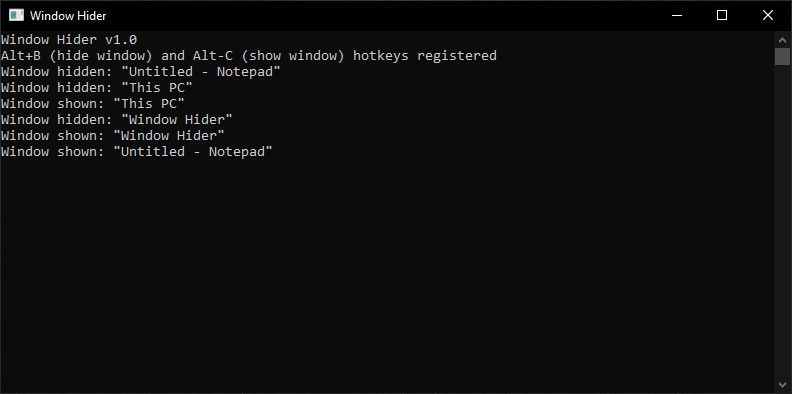
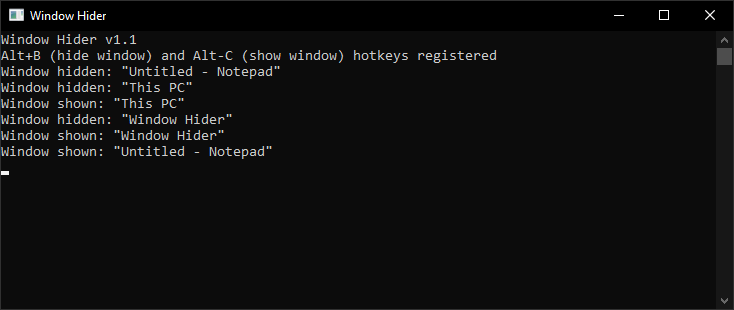
Release v1.1

diff --git a/winhide.cpp b/winhide.cpp
@@ -43,7 +43,7 @@ void main() {
     MSG msg = { 0 };
     list<string> exclusions = { CLASS_DESKTOP, CLASS_DESKTOP_LAYER, CLASS_TASKBAR, CLASS_START_MENU, CLASS_NOTIFY_PANEL };
     SetConsoleTitleA("Window Hider");
-    cout << "Window Hider v1.0" << endl;
+    cout << "Window Hider v1.1" << endl;
     if (RegisterHotKey(NULL, HOTKEY_HIDE, MOD_ALT | MOD_NOREPEAT, KEY_B) &&
         RegisterHotKey(NULL, HOTKEY_SHOW, MOD_ALT | MOD_NOREPEAT, KEY_C)) {
         cout << "Alt+B (hide window) and Alt-C (show window) hotkeys registered" << endl;
